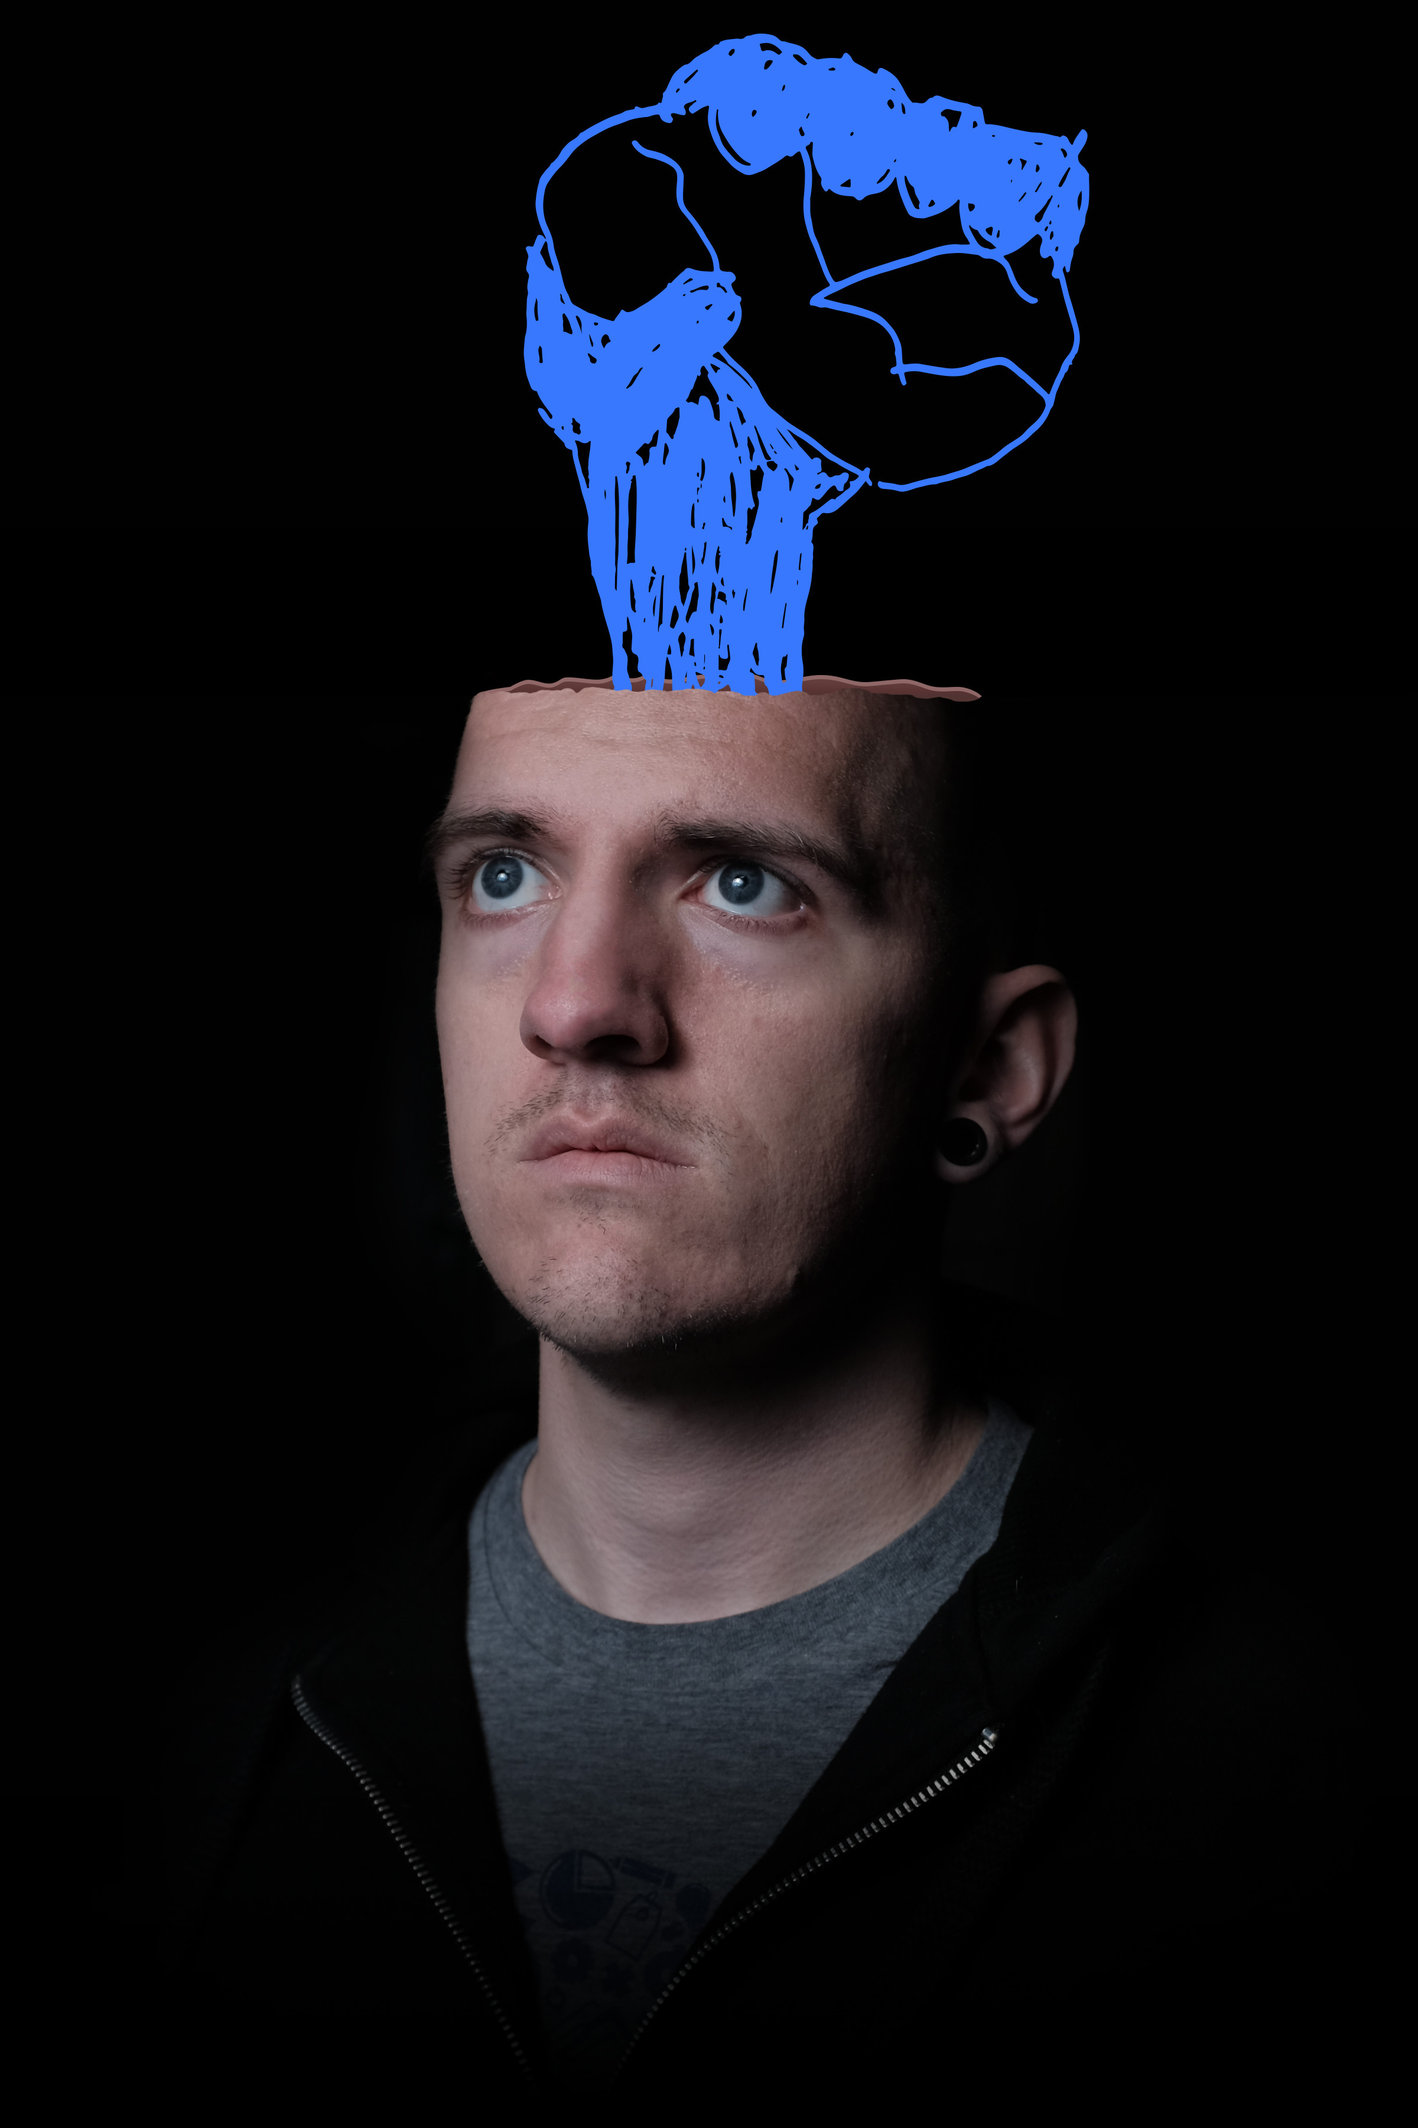
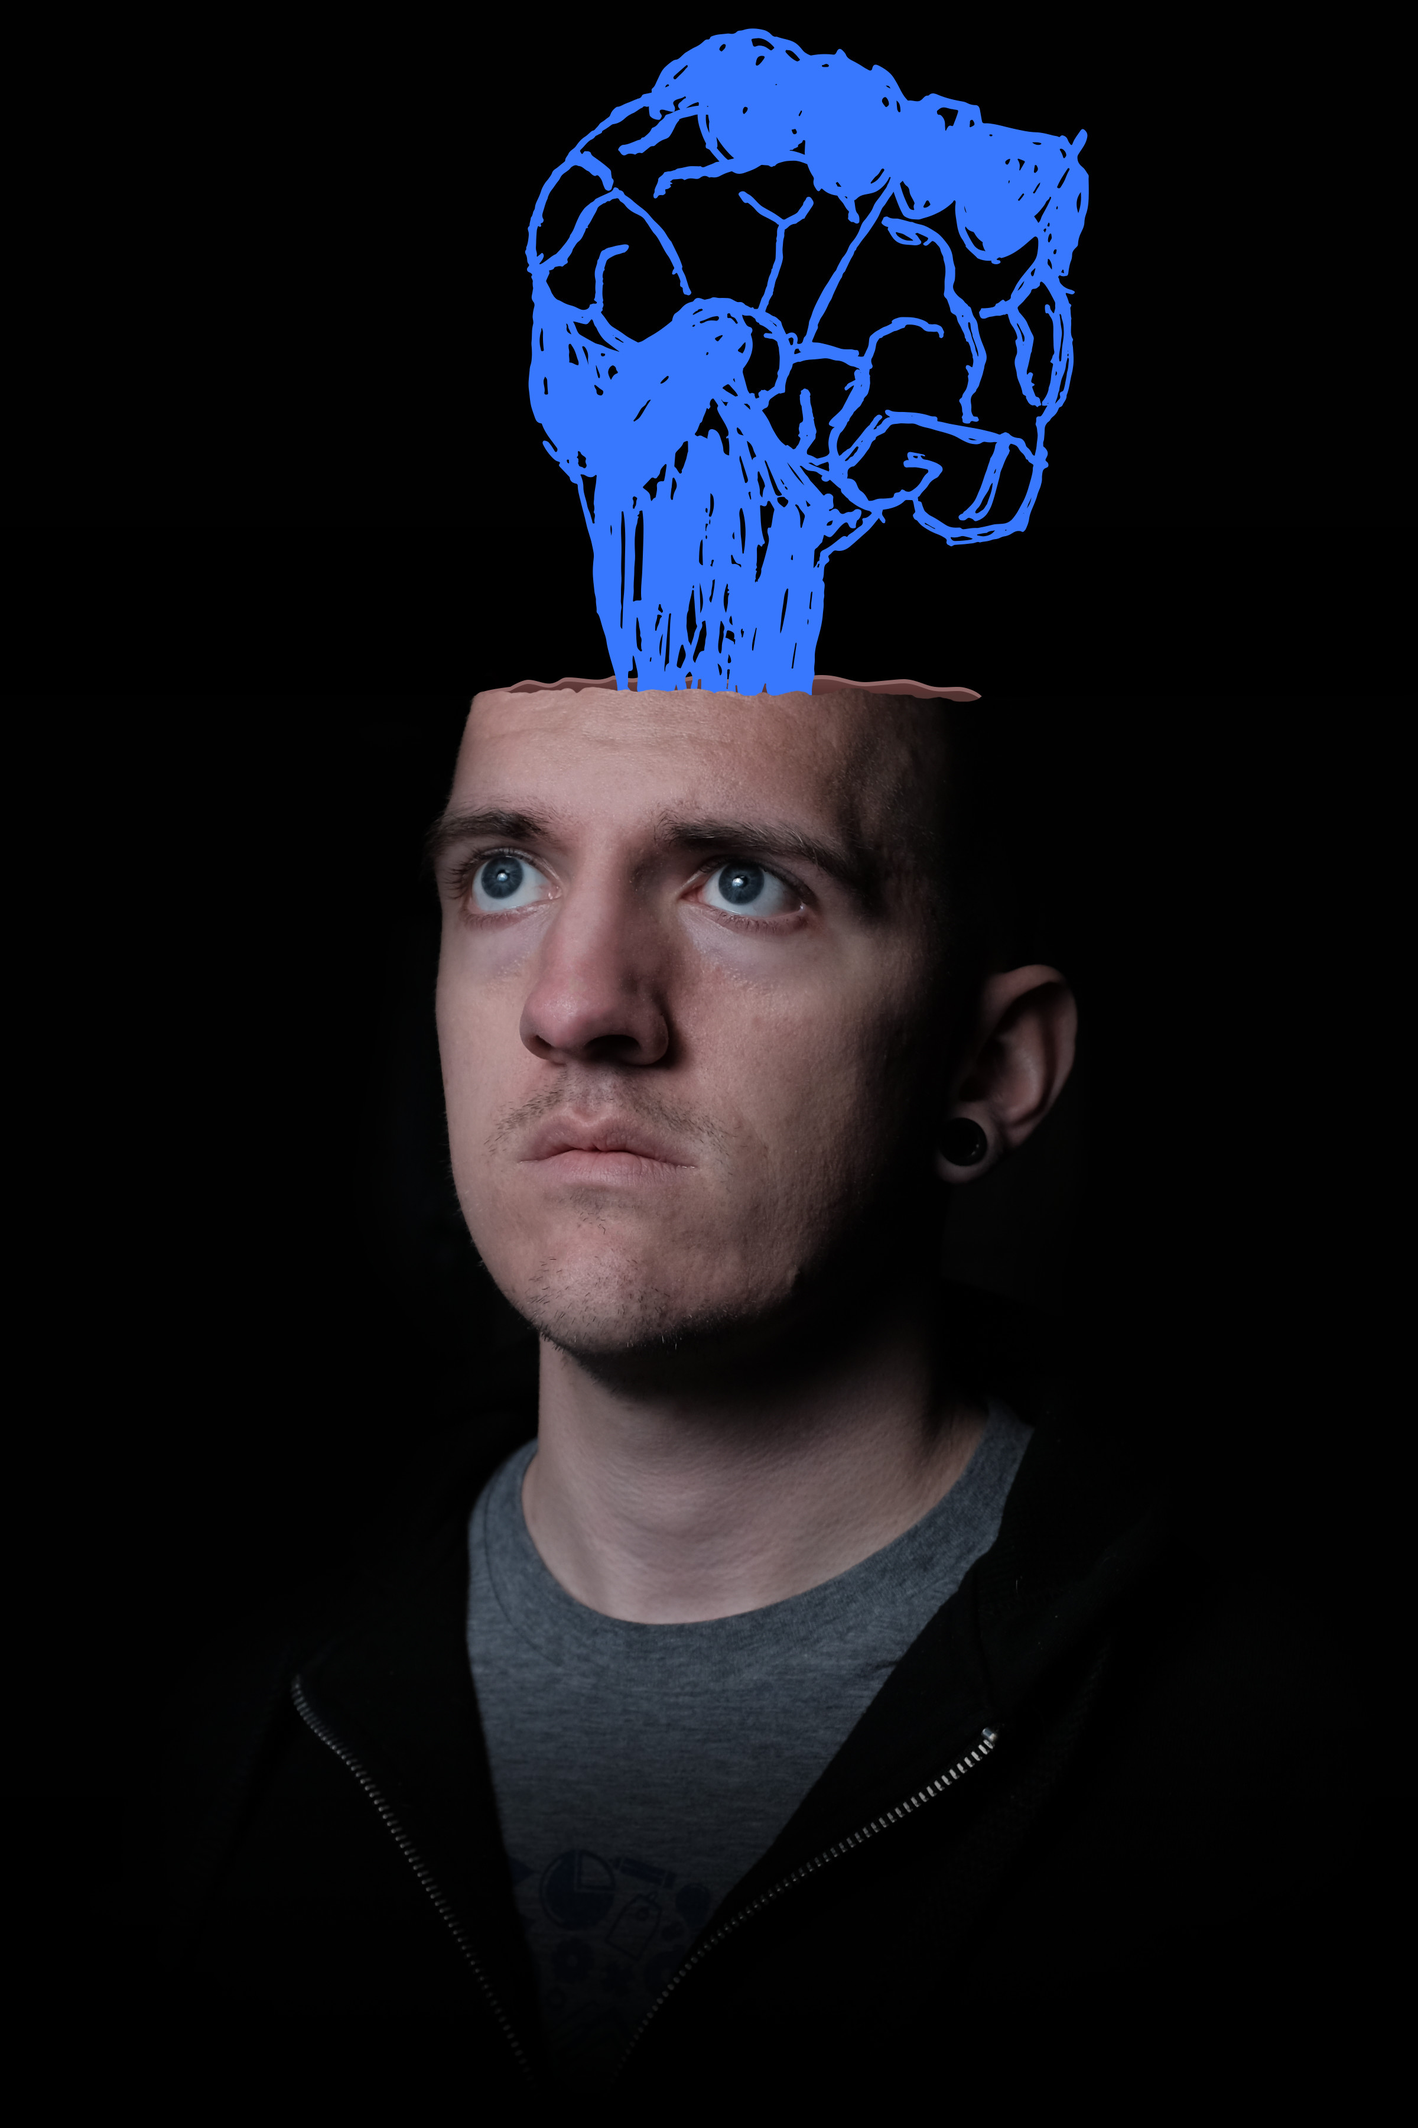
Added Other stuff, Image updates, work divider

Changed region(s): [[0.3438, 0.0, 0.7812, 0.3422]]

diff --git a/index.html b/index.html
@@ -34,6 +34,7 @@
                   <p>I spend other days helping build a better design community with <a href="http://kc.coffeedesign.org">Coffee &amp; Design</a>.</p>
                   <p>I <a href="http://twitter.com/cyborgnation" target="_blank">tweet things</a> sometimes</p>
                   <p>I am available for <a href="mailto:iamjoebarber@gmail.com?Subject=Talk%20words%20at%20people&#63;" target="_blank">speaking events</a> and <a href="mailto:iamjoebarber@gmail.com?Subject=Trade%20your%20time%20for%20money&#63;" target="_blank">freelance</a> opportunities.</p>
+                  <p>I cannot draw well.</p>
                 </div>
               </div>
             </div>
@@ -41,6 +42,16 @@
         </div>
       </section>
       <section>
+        <div class="workintro">
+          <div class="row">
+            <div class="worksvg">
+            </div>
+          </div>
+          <div class="row">
+            <div class="divider">
+            </div>
+          </div>
+        </div>
         <div class="work gopro">
           <div class ="images">
           </div>
@@ -82,10 +93,9 @@
           </div>
           <div class="info">
             <h1>Cactus</h1>
-            <p>Cactus approached LevelFive to collaborate on a compelete overhaul of their AppCentral Doctor Credentialing product. I was the lead UX designer on this project, workign closely with the Cactus product lead and development team to research issues and needs, concept new approaches, and verify them through user testing; resulting in a much more understandable onboarding and verification process.</p>
+            <p>Cactus approached LevelFive to collaborate on a compelete overhaul of their AppCentral Doctor Credentialing product. I was the lead UX designer on this project, working closely with the Cactus product lead and dev team to research issues, build concepts, and verify approaches through user testing; resulting in a much more understandable onboarding and verification process.</p>
             <div class="worklink">
-              <a href="#">Peep Some Screens</a>
-              <svg xmlns="http://www.w3.org/2000/svg" width="71" height="45" viewBox="0 0 71 45" style="vertical-align: middle;" version="1.1"><g stroke="none" stroke-width="1" fill="none" fill-rule="evenodd"><g class="arrow" transform="translate(-1001.000000, -4072.000000)" fill="#3778FF"><g transform="translate(0.000000, 3408.000000)"><g transform="translate(702.000000, 423.000000)"><g transform="translate(95.000000, 241.000000)"><path d="M249.62 34.39C249.11 34.35 248.65 34.33 248.2 34.25 247.17 34.08 246.96 33.47 247.35 32.51 247.91 31.12 248.86 30.12 250.06 29.3 250.39 29.08 250.66 28.79 250.94 28.51 251.39 28.04 251.88 27.64 252.44 27.3 253.49 26.65 254.49 25.92 255.61 25 254.48 24.99 253.68 25.42 252.84 25.66 252.11 25.86 251.4 26.12 250.63 26.03 250.41 26 250.21 26.03 250 26.14 248.96 26.7 247.78 26.81 246.66 26.79 245.99 26.78 245.11 26.83 244.65 26.04 244.53 25.84 244.37 25.88 244.19 25.97 243.78 26.18 243.36 26.4 242.92 26.54 242.31 26.73 241.73 26.86 241.07 26.52 239.97 25.95 238.71 25.99 237.5 25.85 234.61 25.54 231.71 25.69 228.81 25.6 226.32 25.52 223.78 25.52 221.3 25.9 220.44 26.04 219.59 26.02 218.74 26.08 217.65 26.15 216.58 26.53 215.5 26.8 214.59 27.03 213.67 27.1 212.73 27 212.1 26.93 211.57 26.65 211.06 26.3 210.74 26.07 210.68 25.8 210.87 25.46 211.03 25.18 211.21 24.91 211.34 24.62 211.64 23.97 211.41 23.55 210.74 23.73 209.48 24.07 208.9 22.95 207.95 22.65 207.71 21.72 206.81 21.53 206.16 21.06 205.78 20.8 205.37 20.59 204.9 20.48 204.47 20.37 203.89 20.3 204.02 19.63 204.17 18.81 204.88 18.32 205.58 18.54 206.19 18.73 206.8 18.96 207.38 19.23 208.3 19.66 209.23 19.8 210.2 19.48 210.93 19.25 211.67 19.23 212.44 19.31 213.44 19.42 214.44 19.44 215.44 19.21 216.96 18.86 218.51 19.02 220.04 19.01 222.27 19 224.49 18.98 226.72 18.96 229.02 18.95 231.31 18.73 233.54 18.14 233.72 18.1 233.89 18 234.06 18.01 235.76 18.1 237.42 17.65 239.1 17.55 239.78 17.51 240.44 17.31 241.12 17.28 242.99 17.2 244.85 17.21 246.71 17.28 246.98 17.29 247.21 17.34 247.42 17.49 247.61 17.62 247.82 17.7 248.03 17.59 248.94 17.1 249.92 17.32 250.88 17.31 251.46 17.3 252.02 17.29 252.58 16.91 251.75 15.85 250.77 14.95 249.69 14.22 248.64 13.53 248.02 12.45 247.03 11.74 246.54 11.39 246.24 10.99 246.1 10.32 245.91 9.46 245.1 8.86 244.59 8.14 244.26 7.67 243.97 7.18 243.3 7.1 242.96 7.06 242.85 6.72 242.92 6.42 243.17 5.3 243.33 4.83 244.45 4.63 244.63 4.59 244.8 4.59 245.05 4.56 244.91 4.04 244.63 3.66 244.25 3.44 243.72 3.15 243.48 2.61 243.03 2.24 242.58 1.88 243.07 1.39 243.18 0.98 243.3 0.55 243.69 0.29 244.11 0.41 244.9 0.64 245.78 0.54 246.52 0.9 247.24 1.25 247.95 1.73 248.33 2.48 248.58 2.98 248.89 3.25 249.44 3.39 250.09 3.55 250.72 3.85 251.36 4.06 251.85 4.21 251.91 4.84 252.39 4.96 252.86 5.09 253.12 4.53 253.65 4.55 255.25 4.63 256.54 5.11 257.5 6.5 258.42 7.83 259.75 8.67 261.33 9.09 262.59 9.42 263.8 9.85 264.82 10.7 265.52 11.29 266.39 11.6 267.25 11.82 268.6 12.16 269.59 13.02 270.63 13.84 270.83 13.99 270.99 14.19 271.19 14.34 271.57 14.61 271.82 14.91 271.64 15.42 271.47 15.92 271.76 16.15 272.19 16.29 272.29 16.33 272.39 16.37 272.49 16.41 273.88 16.96 274.36 17.72 274.28 19.19 274.27 19.43 274.18 19.6 273.94 19.67 273.69 19.73 273.43 19.75 273.22 19.87 273 19.98 272.91 20.19 273.2 20.35 273.44 20.49 273.72 20.52 273.86 20.84 274.28 21.77 273.53 22.96 272.52 22.78 271.36 22.56 270.57 22.97 269.89 23.82 269.63 24.15 269.35 24.46 268.94 24.54 268.97 24.82 269.12 24.85 269.25 24.9 269.55 25.01 269.97 25 270.05 25.36 270.14 25.78 269.72 26.08 269.46 26.17 268.59 26.5 268.12 27.34 267.3 27.72 266.87 27.93 266.64 28.36 266.3 28.68 265.05 29.84 263.8 30.99 262.48 32.07 262.26 32.25 262.02 32.45 261.89 32.69 261.47 33.49 260.75 33.9 260.05 34.39 258.1 35.74 256.48 37.47 254.94 39.25 255.18 39.69 255.58 39.84 256.15 40.07 255.67 40.14 255.31 40.31 255.03 40.22 254.27 39.96 253.9 40.4 253.55 40.92 252.73 42.14 251.7 43.15 250.48 43.97 249.8 44.42 248.63 44.18 248.41 43.42 248.22 42.77 247.92 42.06 248.57 41.37 249.2 40.71 249.09 40.54 248.22 40.22 246.92 39.75 246.65 38.95 247.41 37.82 247.93 37.05 248.44 36.27 249.09 35.59 249.35 35.31 249.64 35.01 249.62 34.39L249.62 34.39ZM249.23 11.02C249.86 11.88 250.6 12.52 251.43 13.08 251.97 13.43 252.53 13.77 252.99 14.21 254.17 15.36 255.68 15.94 257.08 16.71 257.49 16.93 257.93 16.81 258.34 16.7 258.64 16.62 258.87 16.29 258.62 16.03 257.93 15.32 257.3 14.45 256.29 14.22 255.27 13.99 254.48 13.38 253.62 12.89 253.06 12.57 252.53 12.22 251.92 12.01 251.37 11.82 250.85 11.59 250.39 11.24 250.06 10.99 249.73 10.85 249.23 11.02L249.23 11.02Z"/></path></g></g></g></g></g></svg>  
+              <a href="#">:( No Public Link</a>
             </div>
           </div>
         </div>
@@ -93,12 +103,19 @@
           <div class ="images">
           </div>
           <div class="info">
-            <h1>CityFP</h1>
+            <h1>CityFootprints</h1>
             <p>City Footprints was built to help people find and recommend things to do in their city through guides - collections of activities built around a theme or event, with tips for each stop. I joined City Footprints in 2012 as their product designer with a goal of redesigning their site and re-imagining how their platform could be used.</p>
             <div class="worklink">
               <a href="#">...This is awkward</a>
-              <svg xmlns="http://www.w3.org/2000/svg" width="71" height="45" viewBox="0 0 71 45" style="vertical-align: middle;" version="1.1"><g stroke="none" stroke-width="1" fill="none" fill-rule="evenodd"><g class="arrow" transform="translate(-1001.000000, -4072.000000)" fill="#3778FF"><g transform="translate(0.000000, 3408.000000)"><g transform="translate(702.000000, 423.000000)"><g transform="translate(95.000000, 241.000000)"><path d="M249.62 34.39C249.11 34.35 248.65 34.33 248.2 34.25 247.17 34.08 246.96 33.47 247.35 32.51 247.91 31.12 248.86 30.12 250.06 29.3 250.39 29.08 250.66 28.79 250.94 28.51 251.39 28.04 251.88 27.64 252.44 27.3 253.49 26.65 254.49 25.92 255.61 25 254.48 24.99 253.68 25.42 252.84 25.66 252.11 25.86 251.4 26.12 250.63 26.03 250.41 26 250.21 26.03 250 26.14 248.96 26.7 247.78 26.81 246.66 26.79 245.99 26.78 245.11 26.83 244.65 26.04 244.53 25.84 244.37 25.88 244.19 25.97 243.78 26.18 243.36 26.4 242.92 26.54 242.31 26.73 241.73 26.86 241.07 26.52 239.97 25.95 238.71 25.99 237.5 25.85 234.61 25.54 231.71 25.69 228.81 25.6 226.32 25.52 223.78 25.52 221.3 25.9 220.44 26.04 219.59 26.02 218.74 26.08 217.65 26.15 216.58 26.53 215.5 26.8 214.59 27.03 213.67 27.1 212.73 27 212.1 26.93 211.57 26.65 211.06 26.3 210.74 26.07 210.68 25.8 210.87 25.46 211.03 25.18 211.21 24.91 211.34 24.62 211.64 23.97 211.41 23.55 210.74 23.73 209.48 24.07 208.9 22.95 207.95 22.65 207.71 21.72 206.81 21.53 206.16 21.06 205.78 20.8 205.37 20.59 204.9 20.48 204.47 20.37 203.89 20.3 204.02 19.63 204.17 18.81 204.88 18.32 205.58 18.54 206.19 18.73 206.8 18.96 207.38 19.23 208.3 19.66 209.23 19.8 210.2 19.48 210.93 19.25 211.67 19.23 212.44 19.31 213.44 19.42 214.44 19.44 215.44 19.21 216.96 18.86 218.51 19.02 220.04 19.01 222.27 19 224.49 18.98 226.72 18.96 229.02 18.95 231.31 18.73 233.54 18.14 233.72 18.1 233.89 18 234.06 18.01 235.76 18.1 237.42 17.65 239.1 17.55 239.78 17.51 240.44 17.31 241.12 17.28 242.99 17.2 244.85 17.21 246.71 17.28 246.98 17.29 247.21 17.34 247.42 17.49 247.61 17.62 247.82 17.7 248.03 17.59 248.94 17.1 249.92 17.32 250.88 17.31 251.46 17.3 252.02 17.29 252.58 16.91 251.75 15.85 250.77 14.95 249.69 14.22 248.64 13.53 248.02 12.45 247.03 11.74 246.54 11.39 246.24 10.99 246.1 10.32 245.91 9.46 245.1 8.86 244.59 8.14 244.26 7.67 243.97 7.18 243.3 7.1 242.96 7.06 242.85 6.72 242.92 6.42 243.17 5.3 243.33 4.83 244.45 4.63 244.63 4.59 244.8 4.59 245.05 4.56 244.91 4.04 244.63 3.66 244.25 3.44 243.72 3.15 243.48 2.61 243.03 2.24 242.58 1.88 243.07 1.39 243.18 0.98 243.3 0.55 243.69 0.29 244.11 0.41 244.9 0.64 245.78 0.54 246.52 0.9 247.24 1.25 247.95 1.73 248.33 2.48 248.58 2.98 248.89 3.25 249.44 3.39 250.09 3.55 250.72 3.85 251.36 4.06 251.85 4.21 251.91 4.84 252.39 4.96 252.86 5.09 253.12 4.53 253.65 4.55 255.25 4.63 256.54 5.11 257.5 6.5 258.42 7.83 259.75 8.67 261.33 9.09 262.59 9.42 263.8 9.85 264.82 10.7 265.52 11.29 266.39 11.6 267.25 11.82 268.6 12.16 269.59 13.02 270.63 13.84 270.83 13.99 270.99 14.19 271.19 14.34 271.57 14.61 271.82 14.91 271.64 15.42 271.47 15.92 271.76 16.15 272.19 16.29 272.29 16.33 272.39 16.37 272.49 16.41 273.88 16.96 274.36 17.72 274.28 19.19 274.27 19.43 274.18 19.6 273.94 19.67 273.69 19.73 273.43 19.75 273.22 19.87 273 19.98 272.91 20.19 273.2 20.35 273.44 20.49 273.72 20.52 273.86 20.84 274.28 21.77 273.53 22.96 272.52 22.78 271.36 22.56 270.57 22.97 269.89 23.82 269.63 24.15 269.35 24.46 268.94 24.54 268.97 24.82 269.12 24.85 269.25 24.9 269.55 25.01 269.97 25 270.05 25.36 270.14 25.78 269.72 26.08 269.46 26.17 268.59 26.5 268.12 27.34 267.3 27.72 266.87 27.93 266.64 28.36 266.3 28.68 265.05 29.84 263.8 30.99 262.48 32.07 262.26 32.25 262.02 32.45 261.89 32.69 261.47 33.49 260.75 33.9 260.05 34.39 258.1 35.74 256.48 37.47 254.94 39.25 255.18 39.69 255.58 39.84 256.15 40.07 255.67 40.14 255.31 40.31 255.03 40.22 254.27 39.96 253.9 40.4 253.55 40.92 252.73 42.14 251.7 43.15 250.48 43.97 249.8 44.42 248.63 44.18 248.41 43.42 248.22 42.77 247.92 42.06 248.57 41.37 249.2 40.71 249.09 40.54 248.22 40.22 246.92 39.75 246.65 38.95 247.41 37.82 247.93 37.05 248.44 36.27 249.09 35.59 249.35 35.31 249.64 35.01 249.62 34.39L249.62 34.39ZM249.23 11.02C249.86 11.88 250.6 12.52 251.43 13.08 251.97 13.43 252.53 13.77 252.99 14.21 254.17 15.36 255.68 15.94 257.08 16.71 257.49 16.93 257.93 16.81 258.34 16.7 258.64 16.62 258.87 16.29 258.62 16.03 257.93 15.32 257.3 14.45 256.29 14.22 255.27 13.99 254.48 13.38 253.62 12.89 253.06 12.57 252.53 12.22 251.92 12.01 251.37 11.82 250.85 11.59 250.39 11.24 250.06 10.99 249.73 10.85 249.23 11.02L249.23 11.02Z"/></path></g></g></g></g></g></svg>  
             </div>
+          </div>
+        </div>
+        <div class="work other">
+          <div class ="images">
+          </div>
+          <div class="info">
+            <h1>Other Stuff</h1>
+            <p>Along with the projects listed here, I've also been fortunate enough to work with some great people at some awesome companies. Such as consulting with DairyQueen on their upcoming MyDQ mobile application, working with Spirit Airlines to redesign their online booking experience, and helping BNSF build a tablet-based application for managing locomotive repairs.</p>
           </div>
         </div>
       </section>

diff --git a/stylesheets/style.css b/stylesheets/style.css
@@ -104,24 +104,44 @@ section {
     letter-spacing: .03em;
     line-height: 1.3; }
 
-.workbg {
-  float: left;
-  display: block;
-  margin-right: 2.35765%;
-  width: 82.94039%;
-  margin-left: 8.5298%;
-  height: 80vh;
-  overflow: hidden;
-  position: relative;
-  margin-top: 8rem; }
-  .workbg:last-child {
-    margin-right: 0; }
-
-.work {
+.workintro {
   float: left;
   display: block;
   margin-right: 2.35765%;
   width: 100%;
+  margin-top: 5em; }
+  .workintro:last-child {
+    margin-right: 0; }
+  .workintro .worksvg {
+    float: left;
+    display: block;
+    margin-right: 2.35765%;
+    width: 31.76157%;
+    height: 33%;
+    background-image: url("../img/work.svg");
+    background-size: auto;
+    background-repeat: no-repeat;
+    box-sizing: content-box;
+    display: block; }
+    .workintro .worksvg:last-child {
+      margin-right: 0; }
+  .workintro .divider {
+    float: left;
+    display: block;
+    margin-right: 2.35765%;
+    width: 100%;
+    height: 50%;
+    background-image: url("../img/divider.svg");
+    background-size: 100%;
+    box-sizing: content-box;
+    background-repeat: no-repeat;
+    display: block;
+    margin-bottom: 5rem;
+    margin-top: -10rem; }
+    .workintro .divider:last-child {
+      margin-right: 0; }
+
+.work {
   -webkit-transform-style: preserve-3d;
   -moz-transform-style: preserve-3d;
   -ms-transform-style: preserve-3d;
@@ -134,8 +154,6 @@ section {
   color: #3778FF;
   position: relative;
   margin-top: 8rem; }
-  .work:last-child {
-    margin-right: 0; }
   .work .images {
     float: left;
     display: block;
@@ -169,8 +187,7 @@ section {
     .work .info h1 {
       line-height: .5;
       font-size: 3em;
-      text-transform: none;
-      margin: 0; }
+      margin-bottom: .5em; }
     .work .info a {
       font-family: "Inconsolata", Helvetica, Arial, sans-serif;
       font-size: 1.3em;
@@ -199,6 +216,9 @@ section {
 
 .cfp .images {
   background-image: url("../img/cfp.png"); }
+
+.other .images {
+  background-image: url("../img/other.png"); }
 
 .footer {
   float: left;

diff --git a/stylesheets/scss/style.scss b/stylesheets/scss/style.scss
@@ -112,20 +112,41 @@ section{
 // Work Section
 // 
 
-.workbg{
-  @include span-columns(10);
-  @include shift(1);
+.workintro{
+  @include span-columns(12);
 
-  height:     80vh;
-  overflow:   hidden;
+  margin-top: 5em;
 
-  position:   relative;
-  margin-top: 8rem;
+  .worksvg{
+    @include span-columns(4 of 12);
 
+    height:   33%;
+
+    background-image:   url("../img/work.svg");
+    background-size:    auto;
+    background-repeat:  no-repeat;
+    box-sizing:         content-box;
+    display:            block;
+  }
+  .divider{
+    @include span-columns(12);
+
+    height:   50%;
+
+    background-image:    url("../img/divider.svg");
+    background-size:    100%;
+    box-sizing:         content-box;
+    background-repeat:  no-repeat;
+    
+    display:        block;
+    margin-bottom:  5rem;
+    margin-top:     -10rem;
+  }
 }
 
+
 .work{
-  @include span-columns(12);
+
   @include transform-style(preserve-3d); //preventing .5px sizing for vertical center.
   @include pad();
 
@@ -168,8 +189,7 @@ section{
     h1{
       line-height: .5;
       font-size: 3em;
-      text-transform: none;
-      margin: 0; 
+      margin-bottom: .5em; 
     }
     
     a{
@@ -223,6 +243,12 @@ section{
 .cfp{
   .images{
     background-image: url("../img/cfp.png");
+  }
+}
+
+.other{
+  .images{
+    background-image: url("../img/other.png");
   }
 }
 
